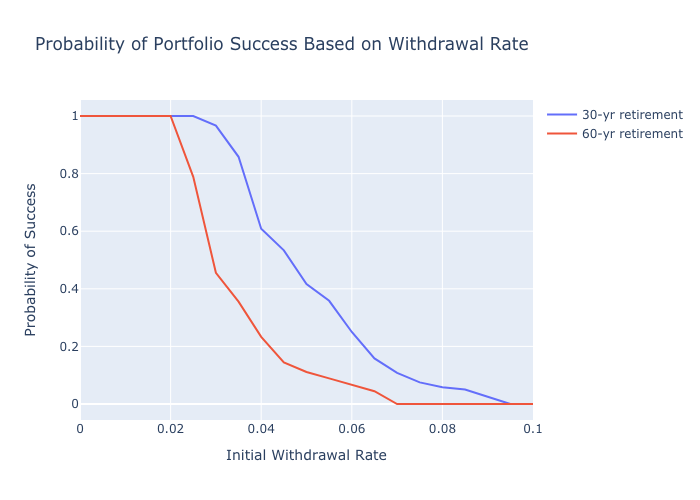
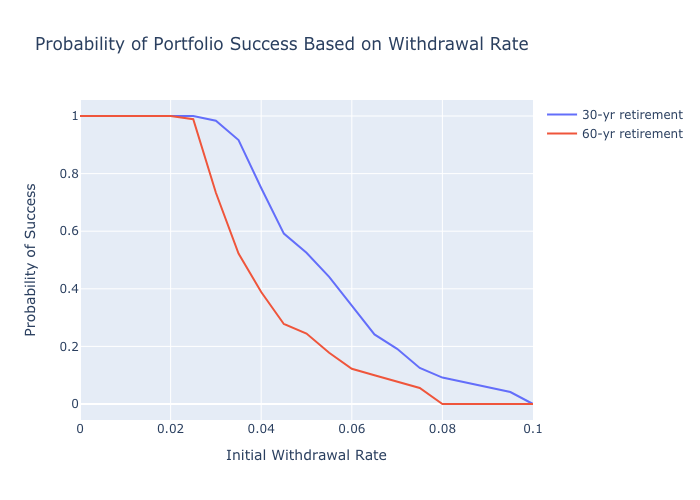
Adjust calculations for gains/losses and inflation; update plot with corresponding probability changes

diff --git a/calculations.py b/calculations.py
@@ -15,12 +15,14 @@ refined_data['Long Interest Rate GS10'] = refined_data['Long Interest Rate GS10'
 dec_data = refined_data[[x.endswith('12') for x in refined_data['Date']]].reset_index()
 jan_data = refined_data[[x.endswith('01') for x in refined_data['Date']]].reset_index()
 
-dec_data['Annual Inflation'] = ((dec_data['Consumer Price Index CPI']-jan_data['Consumer Price Index CPI'])/jan_data['Consumer Price Index CPI']).round(4)
-#dec_data
+dec_data['Annual Inflation'] = dec_data['Consumer Price Index CPI'].pct_change().round(4)
+dec_data['Annual Inflation'][0] = ((dec_data['Consumer Price Index CPI'][0]-jan_data['Consumer Price Index CPI'][0])/jan_data['Consumer Price Index CPI'][0]).round(4)
+
 #stretch goal -- create column in refined_data for monthly inflation rate based on CPI
 
-dec_data['Annual Gain/Loss'] = ((dec_data['Real Price']-jan_data['Real Price'])/jan_data['Real Price']).round(4)
-#dec_data
+dec_data['Annual Gain/Loss'] = dec_data['Real Price'].pct_change().round(4)
+dec_data['Annual Gain/Loss'][0] = ((dec_data['Real Price'][0]-jan_data['Real Price'][0])/jan_data['Real Price'][0]).round(4)
+
 #stretch goal -- create column in refined_data for monthly gain/loss
 
 #quarterly compounding of bond interest
@@ -28,50 +30,48 @@ def calculate_interest(principal, rate):
     return principal*((1+rate/4)**4)
 
 #start with traditional 30-yr for comparison
-def calculate_30(start, wr, ax):
+def calculate_30(start_year, wr, pct_equity=0.5):
     port_values = []
     init_portfolio = 1000000
     port_values.append(init_portfolio)
     withdrawal_amount = init_portfolio*wr
     year1_balance = init_portfolio-withdrawal_amount
-    equity_portion = 0.5*year1_balance 
-    bond_portion = 0.5*year1_balance
+    equity_portion = pct_equity*year1_balance 
+    bond_portion = (1-pct_equity)*year1_balance
     
-    for i in range(start, start+29):
+    for i in range(start_year, start_year+29):
         num_shares = equity_portion/dec_data['Real Price'][i]
         portfolio = (equity_portion*(1+dec_data['Annual Gain/Loss'][i]) + num_shares*dec_data['Real Dividend'][i]) + calculate_interest(bond_portion, dec_data['Long Interest Rate GS10'][i])
         withdrawal_amount += withdrawal_amount*dec_data['Annual Inflation'][i]
         portfolio -= withdrawal_amount
         port_values.append(portfolio)
-        equity_portion = 0.5*portfolio
-        bond_portion = 0.5*portfolio
-    ax.plot(range(1,31), port_values)
+        equity_portion = pct_equity*portfolio
+        bond_portion = (1-pct_equity)*portfolio
     return portfolio
 
-def calculate_60(start, wr, ax):
+def calculate_60(start_year, wr, pct_equity=0.5):
     port_values = []
     init_portfolio = 1000000
     port_values.append(init_portfolio)
     withdrawal_amount = init_portfolio*wr
     year1_balance = init_portfolio-withdrawal_amount 
-    equity_portion = 0.5*year1_balance 
-    bond_portion = 0.5*year1_balance
+    equity_portion = pct_equity*year1_balance 
+    bond_portion = (1-pct_equity)*year1_balance
     
-    for i in range(start, start+59):
+    for i in range(start_year, start_year+59):
         num_shares = equity_portion/dec_data['Real Price'][i]
         portfolio = (equity_portion*(1+dec_data['Annual Gain/Loss'][i]) + num_shares*dec_data['Real Dividend'][i]) + calculate_interest(bond_portion, dec_data['Long Interest Rate GS10'][i])
         withdrawal_amount += withdrawal_amount*dec_data['Annual Inflation'][i]
         portfolio -= withdrawal_amount
         port_values.append(portfolio)
-        equity_portion = 0.5*portfolio
-        bond_portion = 0.5*portfolio
-    ax.plot(range(1,61), port_values)
+        equity_portion = pct_equity*portfolio
+        bond_portion = (1-pct_equity)*portfolio
     return portfolio
 
 def prob_success_30(wr):
     success = 0
     for i in range(0,120):
-        result = calculate_30(1000000, i, wr, ax)
+        result = calculate_30(i, wr, ax)
         if result > 0:
             success += 1
     return success/120
@@ -79,7 +79,7 @@ def prob_success_30(wr):
 def prob_success_60(wr):
     success = 0
     for i in range(0,90):
-        result = calculate_60(1000000, i, wr, ax)
+        result = calculate_60(i, wr, ax)
         if result > 0:
             success += 1
     return success/90
@@ -100,3 +100,29 @@ fig.update_layout(title='Probability of Portfolio Success Based on Withdrawal Ra
                    yaxis_title='Probability of Success')
 fig.show()
 #fig.write_image('prob_range_comparison.png')
+
+
+
+#refined_data['Monthly Inflation'] = refined_data['Consumer Price Index CPI'].pct_change()
+#refined_data['Monthly Gain/Loss'] = refined_data['Real Price'].pct_change()
+
+
+#monthly evaluation & withdrawal
+# def calculate_30(start_date, wr):
+#     port_values = []
+#     init_portfolio = 1000000
+#     port_values.append(init_portfolio)
+#     withdrawal_amount = (init_portfolio*wr)/12
+#     month2_balance = init_portfolio-withdrawal_amount
+#     equity_portion = 0.5*month2_balance 
+#     bond_portion = 0.5*month2_balance
+    
+#     for i in range(start_date, start_date+359):
+#         num_shares = equity_portion/refined_data['Real Price'][i]
+#         portfolio = equity_portion*(1+refined_data['Monthly Gain/Loss'][i]) + num_shares*(refined_data['Real Dividend'][i]/12) + calculate_interest(bond_portion, refined_data['Long Interest Rate GS10'][i]/12)
+#         withdrawal_amount += withdrawal_amount*refined_data['Monthly Inflation'][i]
+#         portfolio -= withdrawal_amount
+#         port_values.append(portfolio)
+#         equity_portion = 0.5*portfolio
+#         bond_portion = 0.5*portfolio
+#     return portfolio
